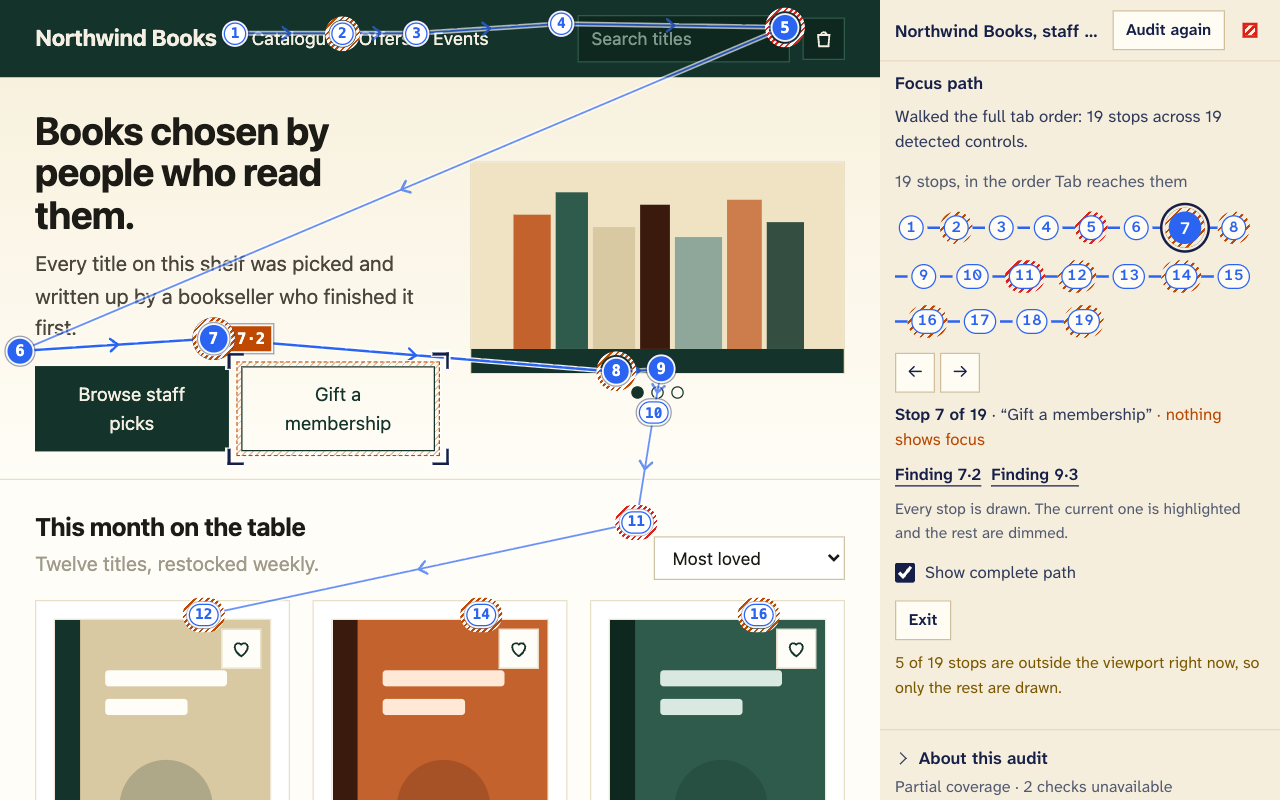
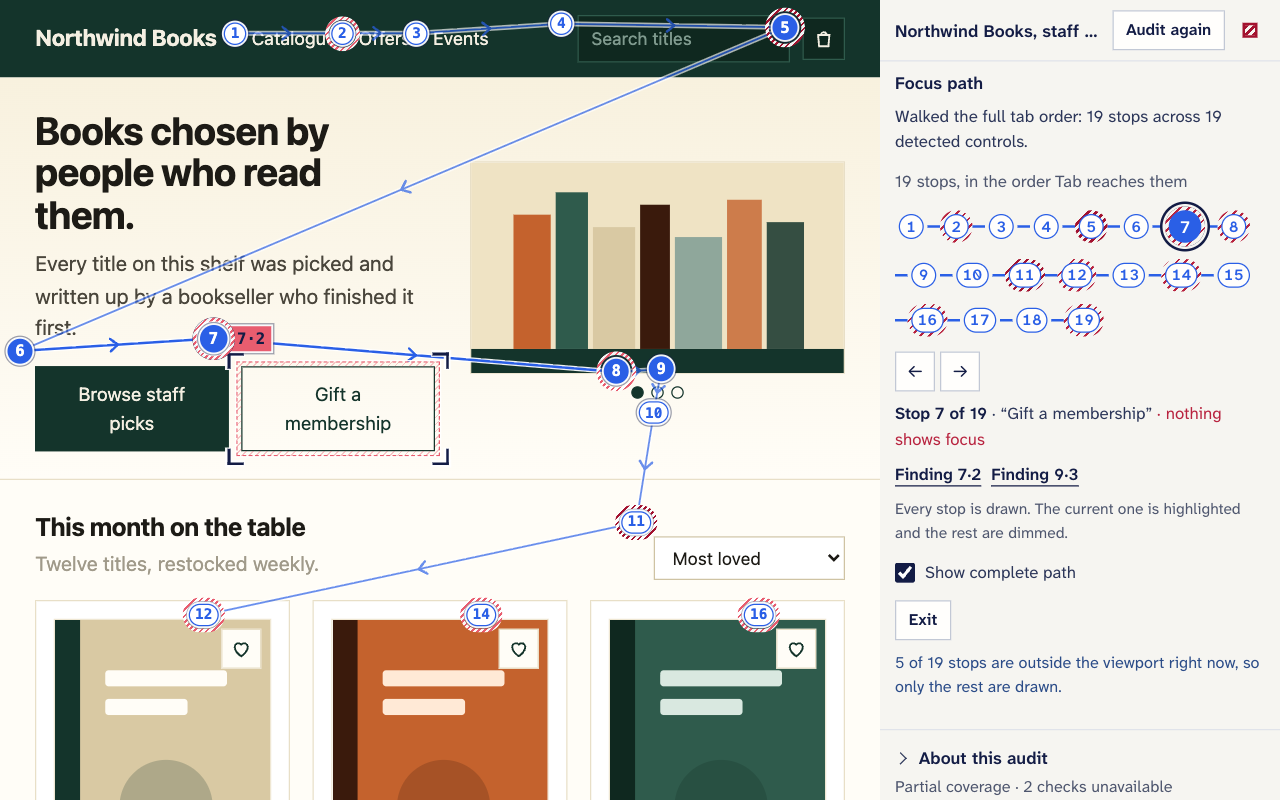
chore(extension): release 1.6.0
Bumps the extension to 1.6.0. It ships the Nanquim palette in the panel,
severities on one red scale ordered by lightness with ink numbers on the
lighter tones, the darker severity tone for hatches and small text, and
steel notices for everything that is not a finding.

STORE-LISTING.md gets the new version and a note of what changed. The
three store screenshots are regenerated. The store descriptions do not
mention colors and stay as they are.

diff --git a/extension/STORE-LISTING.md b/extension/STORE-LISTING.md
@@ -6,7 +6,7 @@ submitted automatically.
 ## Basics
 
 - **Item name:** AccessCheck
-- **Version:** 1.5.0
+- **Version:** 1.6.0
 - **Category:** Developer Tools
 - **Default language:** English (United States)
 - **Visibility:** Public
@@ -149,6 +149,23 @@ Certifications to accept, all of which the code supports:
 > Clicking the toolbar icon runs the whole audit, including the rules, the
 > extension's own checks and the fix verification, without attaching the
 > debugger at all.
+
+## What changed in 1.6.0
+
+- The panel moves from warm cream to a porcelain background with cool,
+  navy-tinted bands, so the panel, its cards and the audited page separate
+  more clearly. Navy ink stays.
+- Severities sit on one red scale, ordered by lightness: critical is dark
+  crimson with white numbers, serious and moderate are lighter with ink
+  numbers and a dark edge. They tell apart without relying on hue, in the
+  panel and in the marks drawn on the page.
+- Hatches, the measured ratio and other small text use the darker tone of
+  each severity, so they keep 4.5:1 on the panel's backgrounds.
+- Notices that are not findings, such as "Keyboard not checked yet", the
+  focus path notes and the Locate on page status, are steel blue instead of
+  a severity color. The partial coverage box gets a neutral border and a
+  steel mark.
+- The panel keeps Atkinson Hyperlegible.
 
 ## What changed in 1.5.0
 
